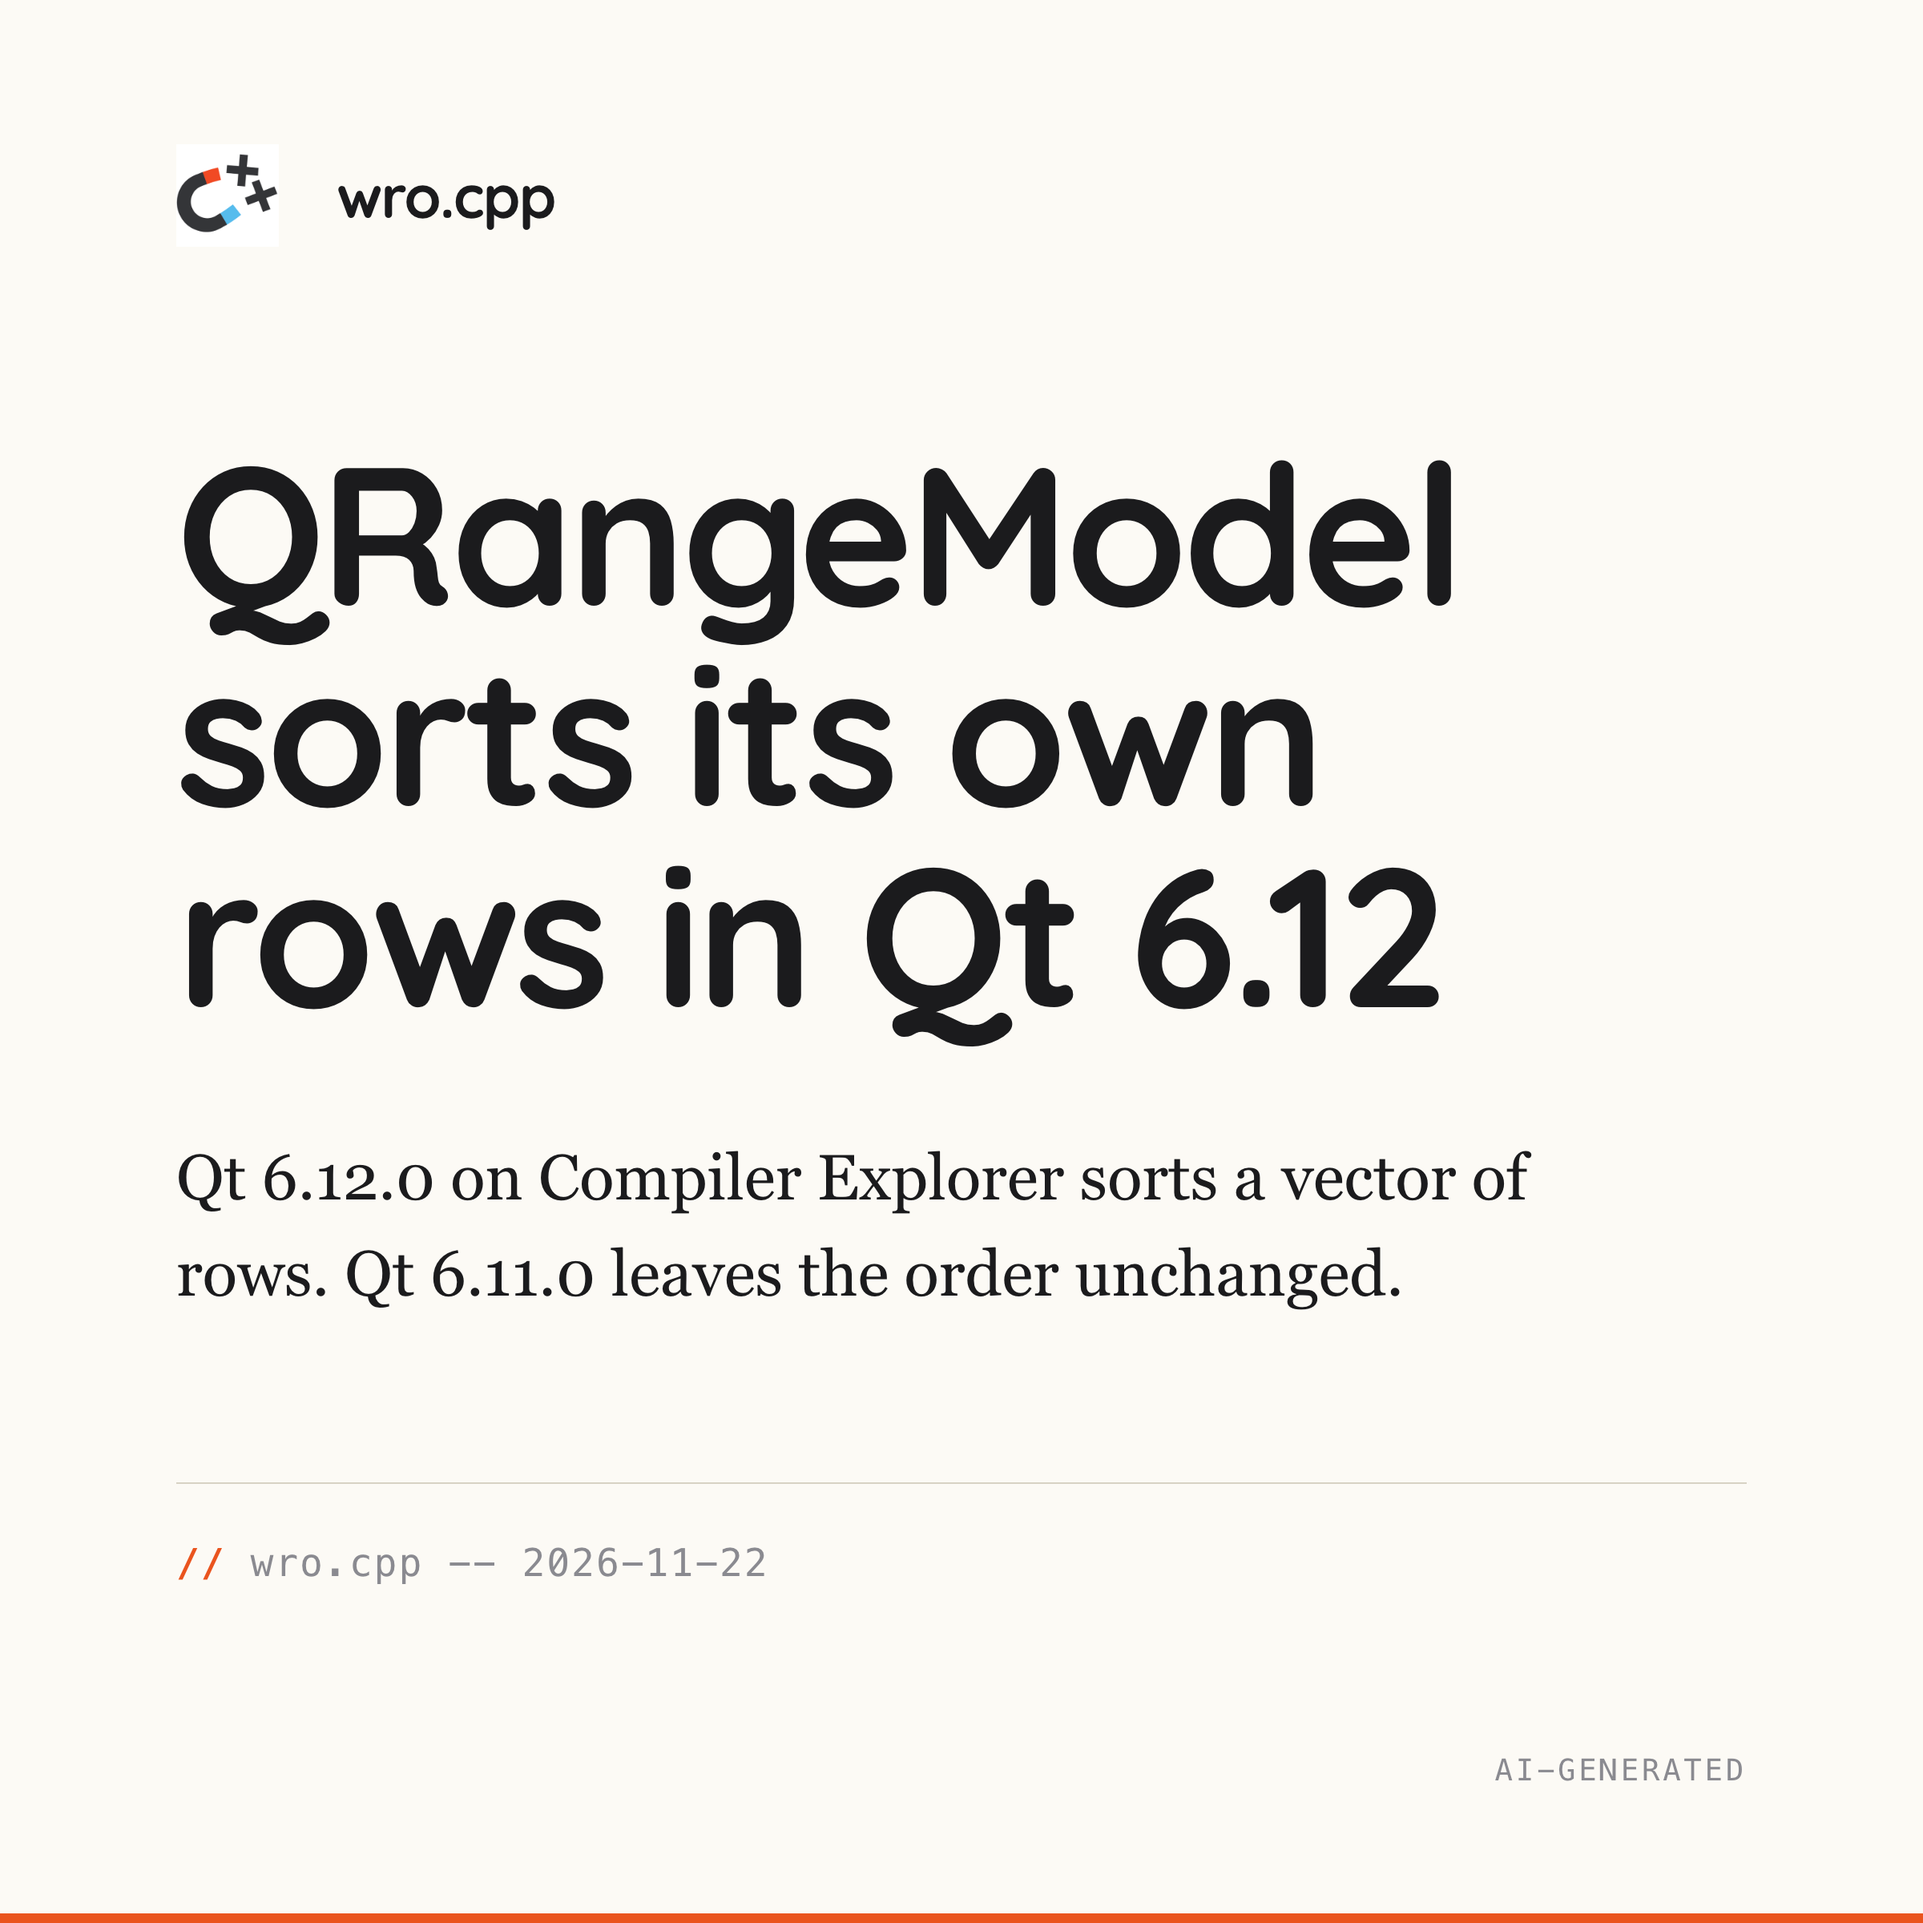
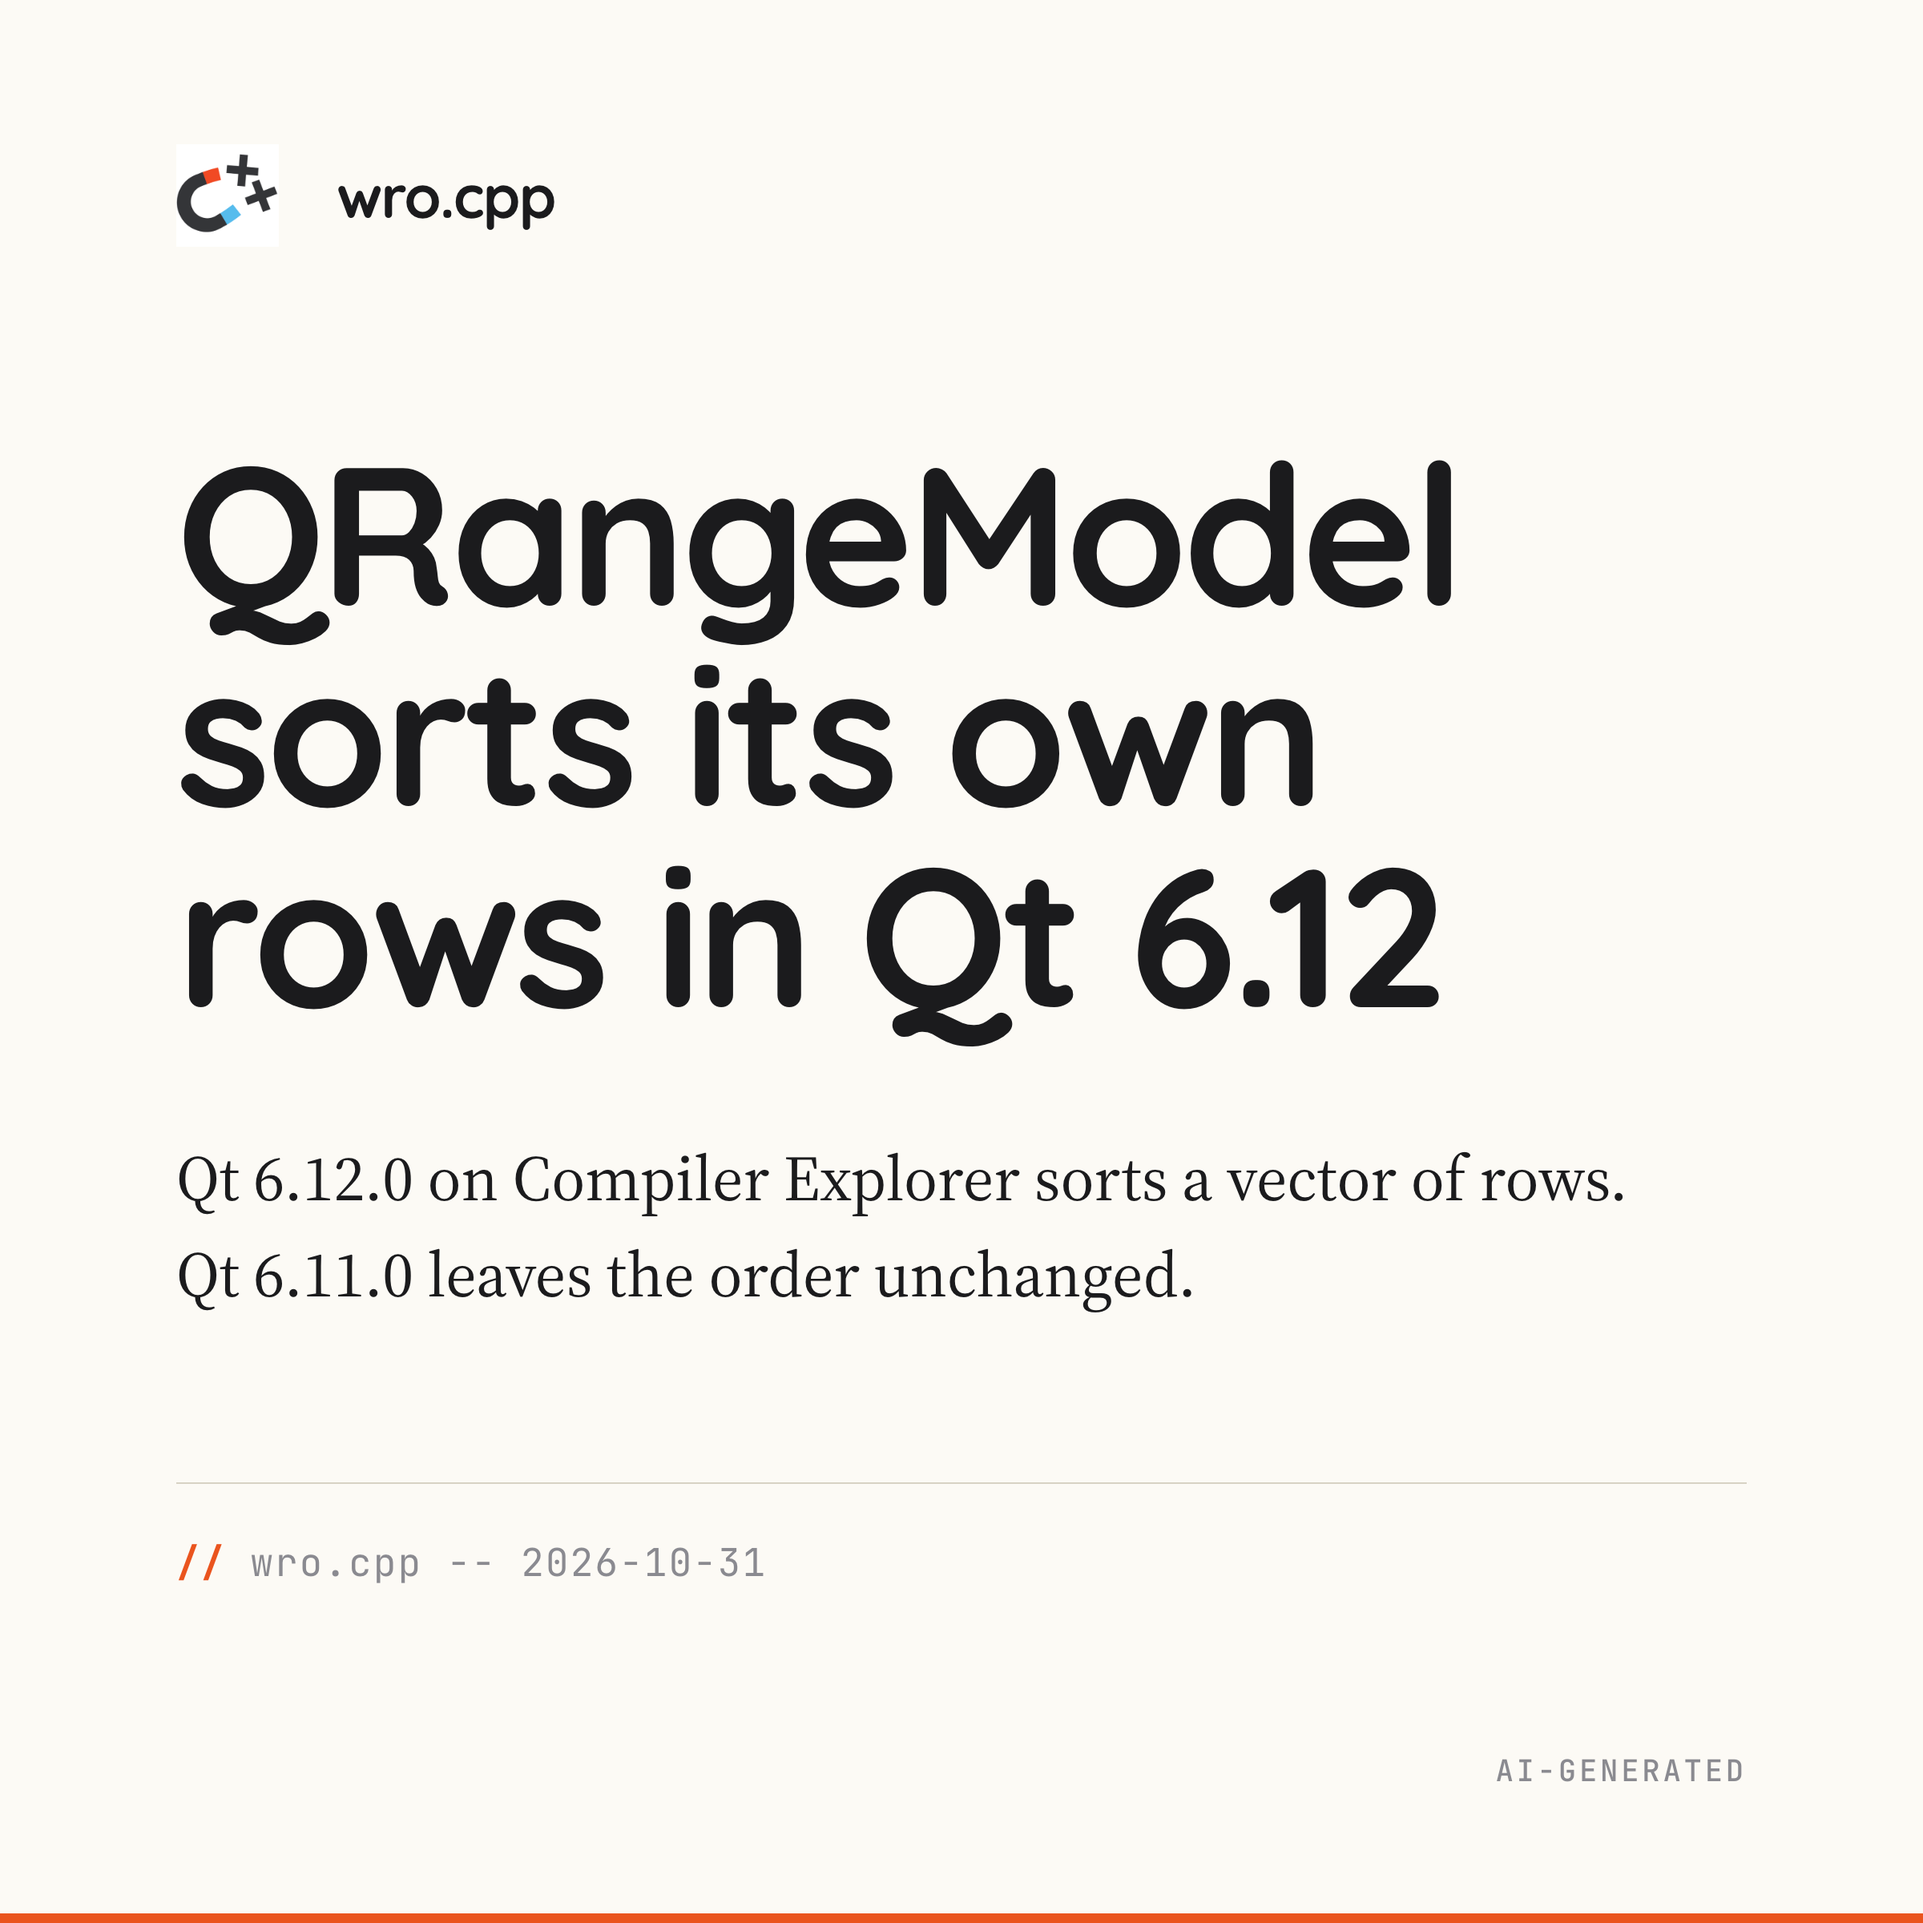
feat(social): re-date the Qt 6.12 card and captions to 31 October
Card date, config date and suggested post time (16:00 UTC, second post of
the day), and a re-rendered card.

Claude-Session: https://claude.ai/code/session_01BTCmkp4nQKAhWT8TGXF9KX

Changed region(s): [[0.0938, 0.5938, 0.8438, 0.625], [0.0938, 0.6562, 0.7188, 0.6875], [0.8125, 0.9062, 0.875, 0.9375]]

diff --git a/social/facebook/sort-qrangemodel-rows-in-qt-6-12/index.html b/social/facebook/sort-qrangemodel-rows-in-qt-6-12/index.html
@@ -23,6 +23,6 @@
   </defs>
 </svg>
 
-<section class="card card-insight dark"><div class="grid-bg"></div><div class="glow"></div><div class="insight-content"><h1>QRangeModel sorts its own rows in Qt 6.12</h1><p>Qt 6.12.0 on Compiler Explorer sorts a vector of rows. Qt 6.11.0 leaves the order unchanged.</p><div class="insight-citation">wro.cpp -- 2026-11-22</div></div><div class="logo-watermark top-left"><svg viewBox="0 0 512 512" aria-hidden="true"><use href="#scudo-logo"/></svg><span class="logo-wordmark">ScudoAI</span></div><div class="ai-badge">AI-generated</div></section>
+<section class="card card-insight dark"><div class="grid-bg"></div><div class="glow"></div><div class="insight-content"><h1>QRangeModel sorts its own rows in Qt 6.12</h1><p>Qt 6.12.0 on Compiler Explorer sorts a vector of rows. Qt 6.11.0 leaves the order unchanged.</p><div class="insight-citation">wro.cpp -- 2026-10-31</div></div><div class="logo-watermark top-left"><svg viewBox="0 0 512 512" aria-hidden="true"><use href="#scudo-logo"/></svg><span class="logo-wordmark">ScudoAI</span></div><div class="ai-badge">AI-generated</div></section>
 </body>
 </html>

diff --git a/social/linkedin/sort-qrangemodel-rows-in-qt-6-12/index.html b/social/linkedin/sort-qrangemodel-rows-in-qt-6-12/index.html
@@ -23,6 +23,6 @@
   </defs>
 </svg>
 
-<section class="card card-insight dark"><div class="grid-bg"></div><div class="glow"></div><div class="insight-content"><h1>QRangeModel sorts its own rows in Qt 6.12</h1><p>Qt 6.12.0 on Compiler Explorer sorts a vector of rows. Qt 6.11.0 leaves the order unchanged.</p><div class="insight-citation">wro.cpp -- 2026-11-22</div></div><div class="logo-watermark top-left"><svg viewBox="0 0 512 512" aria-hidden="true"><use href="#scudo-logo"/></svg><span class="logo-wordmark">ScudoAI</span></div><div class="ai-badge">AI-generated</div></section>
+<section class="card card-insight dark"><div class="grid-bg"></div><div class="glow"></div><div class="insight-content"><h1>QRangeModel sorts its own rows in Qt 6.12</h1><p>Qt 6.12.0 on Compiler Explorer sorts a vector of rows. Qt 6.11.0 leaves the order unchanged.</p><div class="insight-citation">wro.cpp -- 2026-10-31</div></div><div class="logo-watermark top-left"><svg viewBox="0 0 512 512" aria-hidden="true"><use href="#scudo-logo"/></svg><span class="logo-wordmark">ScudoAI</span></div><div class="ai-badge">AI-generated</div></section>
 </body>
 </html>

diff --git a/social/facebook/sort-qrangemodel-rows-in-qt-6-12/caption.md b/social/facebook/sort-qrangemodel-rows-in-qt-6-12/caption.md
@@ -11,8 +11,8 @@ https://wrocpp.github.io/posts/sort-qrangemodel-rows-in-qt-6-12/
 #cpp #cplusplus #qt #qt6 #wrocpp
 
 ## Alt-text
-Cream wro.cpp card with the magnet logo. Headline reads "QRangeModel sorts its own rows in Qt 6.12" with a subtitle saying Qt 6.12.0 sorts a vector of rows on Compiler Explorer and Qt 6.11.0 leaves the order unchanged. Citation footer: wro.cpp, 2026-11-22.
+Cream wro.cpp card with the magnet logo. Headline reads "QRangeModel sorts its own rows in Qt 6.12" with a subtitle saying Qt 6.12.0 sorts a vector of rows on Compiler Explorer and Qt 6.11.0 leaves the order unchanged. Citation footer: wro.cpp, 2026-10-31.
 
 ## Suggested post time
-Sunday 2026-11-22, 08:00 UTC
-Reason: single post of the day; no other post is scheduled on 2026-11-22.
+Saturday 2026-10-31, 16:00 UTC
+Reason: second post of the day; the Catch2 post holds the 08:00 UTC slot.

diff --git a/social/linkedin/sort-qrangemodel-rows-in-qt-6-12/caption.md b/social/linkedin/sort-qrangemodel-rows-in-qt-6-12/caption.md
@@ -11,8 +11,8 @@ https://wrocpp.github.io/posts/sort-qrangemodel-rows-in-qt-6-12/
 #cpp #cplusplus #qt #qt6 #wrocpp
 
 ## Alt-text
-Cream wro.cpp card with the magnet logo. Headline reads "QRangeModel sorts its own rows in Qt 6.12" with a subtitle saying Qt 6.12.0 sorts a vector of rows on Compiler Explorer and Qt 6.11.0 leaves the order unchanged. Citation footer: wro.cpp, 2026-11-22.
+Cream wro.cpp card with the magnet logo. Headline reads "QRangeModel sorts its own rows in Qt 6.12" with a subtitle saying Qt 6.12.0 sorts a vector of rows on Compiler Explorer and Qt 6.11.0 leaves the order unchanged. Citation footer: wro.cpp, 2026-10-31.
 
 ## Suggested post time
-Sunday 2026-11-22, 08:00 UTC
-Reason: single post of the day; no other post is scheduled on 2026-11-22.
+Saturday 2026-10-31, 16:00 UTC
+Reason: second post of the day; the Catch2 post holds the 08:00 UTC slot.

diff --git a/social/facebook/sort-qrangemodel-rows-in-qt-6-12/content.md b/social/facebook/sort-qrangemodel-rows-in-qt-6-12/content.md
@@ -4,7 +4,7 @@ template: social/linkedin-post
 
 ::::post{type=insight theme=dark logo=top-left}
 
-:::insight{citation="wro.cpp -- 2026-11-22"}
+:::insight{citation="wro.cpp -- 2026-10-31"}
 # QRangeModel sorts its own rows in Qt 6.12
 Qt 6.12.0 on Compiler Explorer sorts a vector of rows. Qt 6.11.0 leaves the order unchanged.
 :::

diff --git a/social/linkedin/sort-qrangemodel-rows-in-qt-6-12/content.md b/social/linkedin/sort-qrangemodel-rows-in-qt-6-12/content.md
@@ -4,7 +4,7 @@ template: social/linkedin-post
 
 ::::post{type=insight theme=dark logo=top-left}
 
-:::insight{citation="wro.cpp -- 2026-11-22"}
+:::insight{citation="wro.cpp -- 2026-10-31"}
 # QRangeModel sorts its own rows in Qt 6.12
 Qt 6.12.0 on Compiler Explorer sorts a vector of rows. Qt 6.11.0 leaves the order unchanged.
 :::
